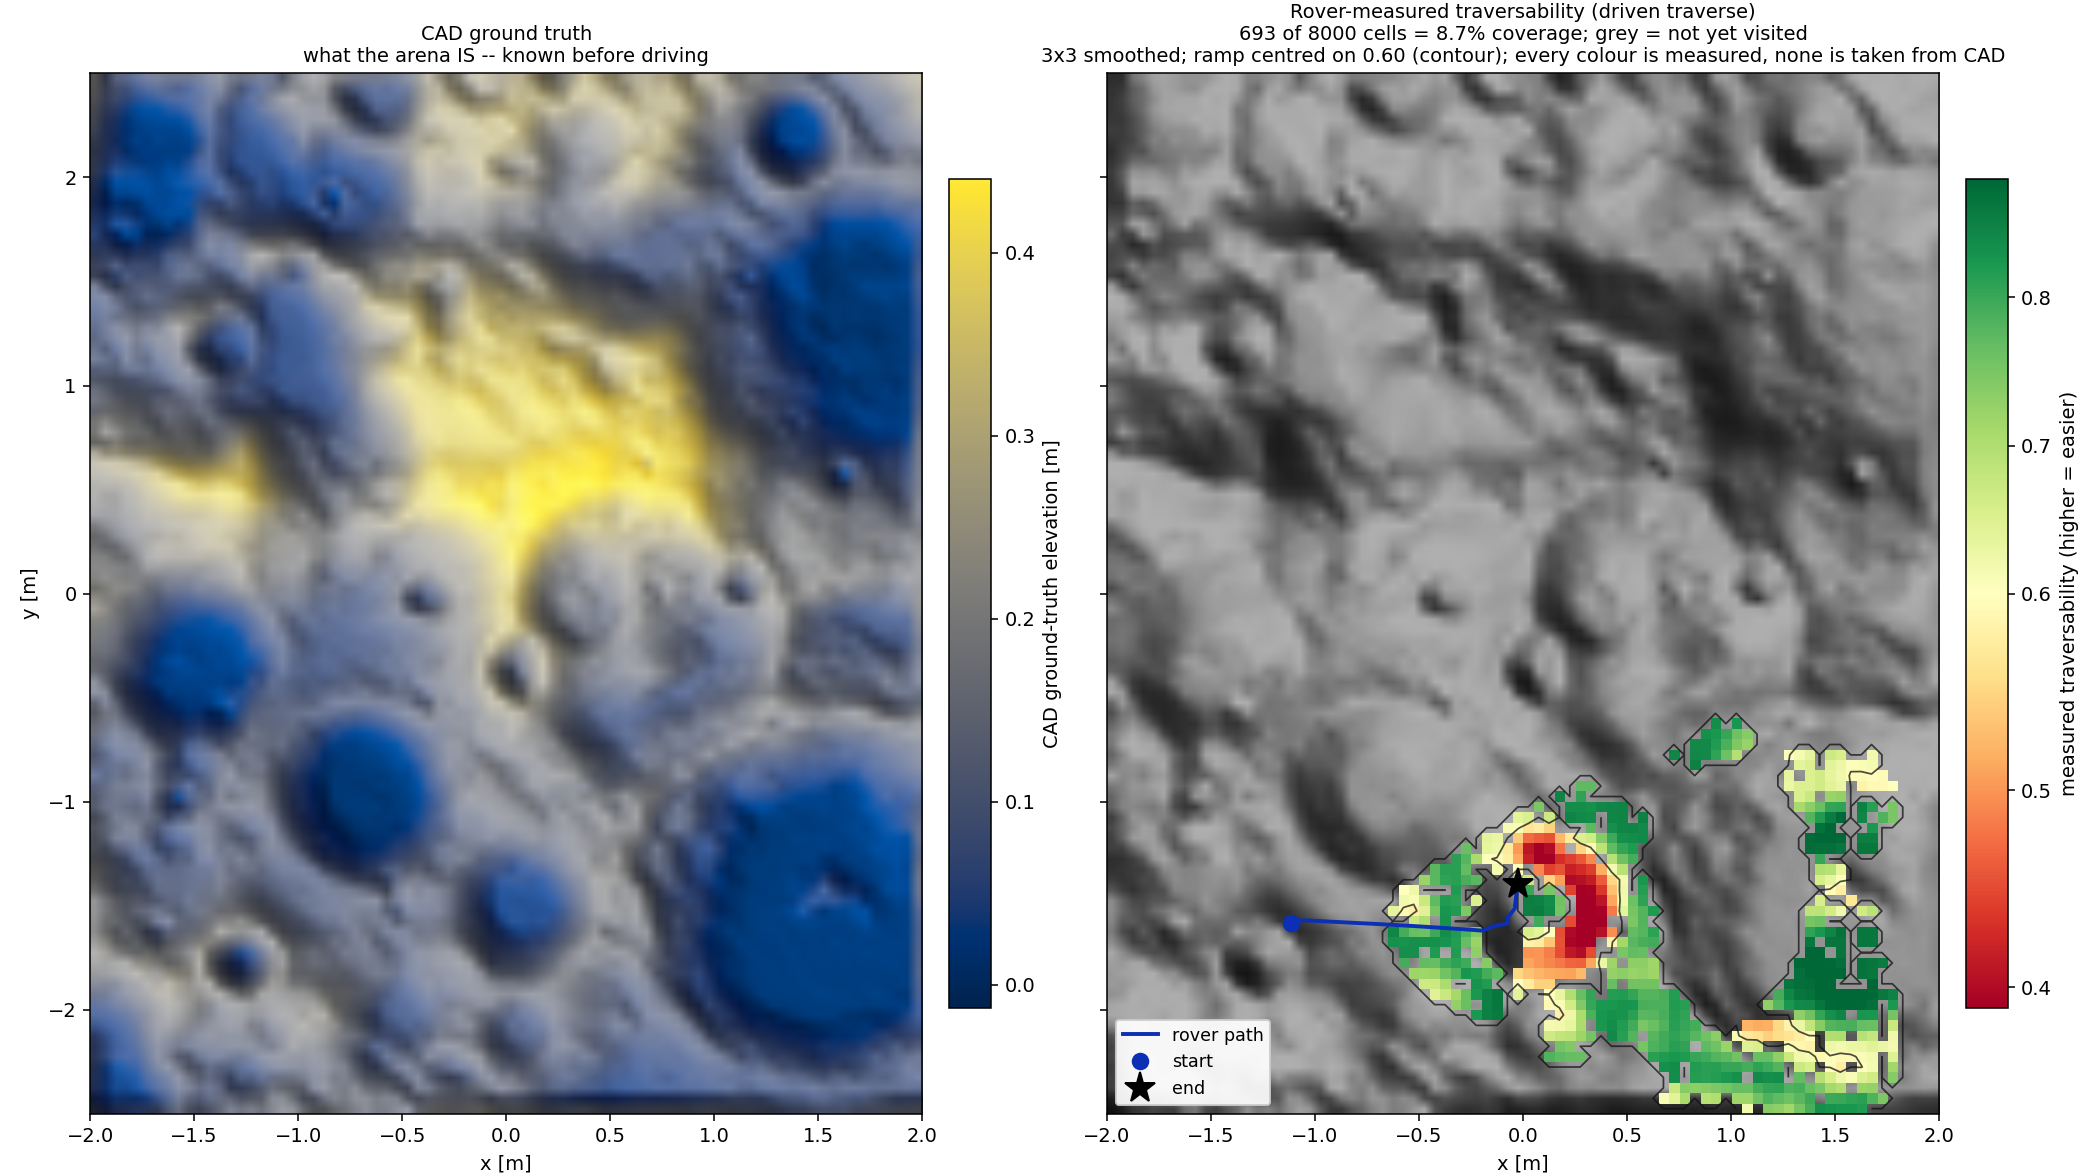
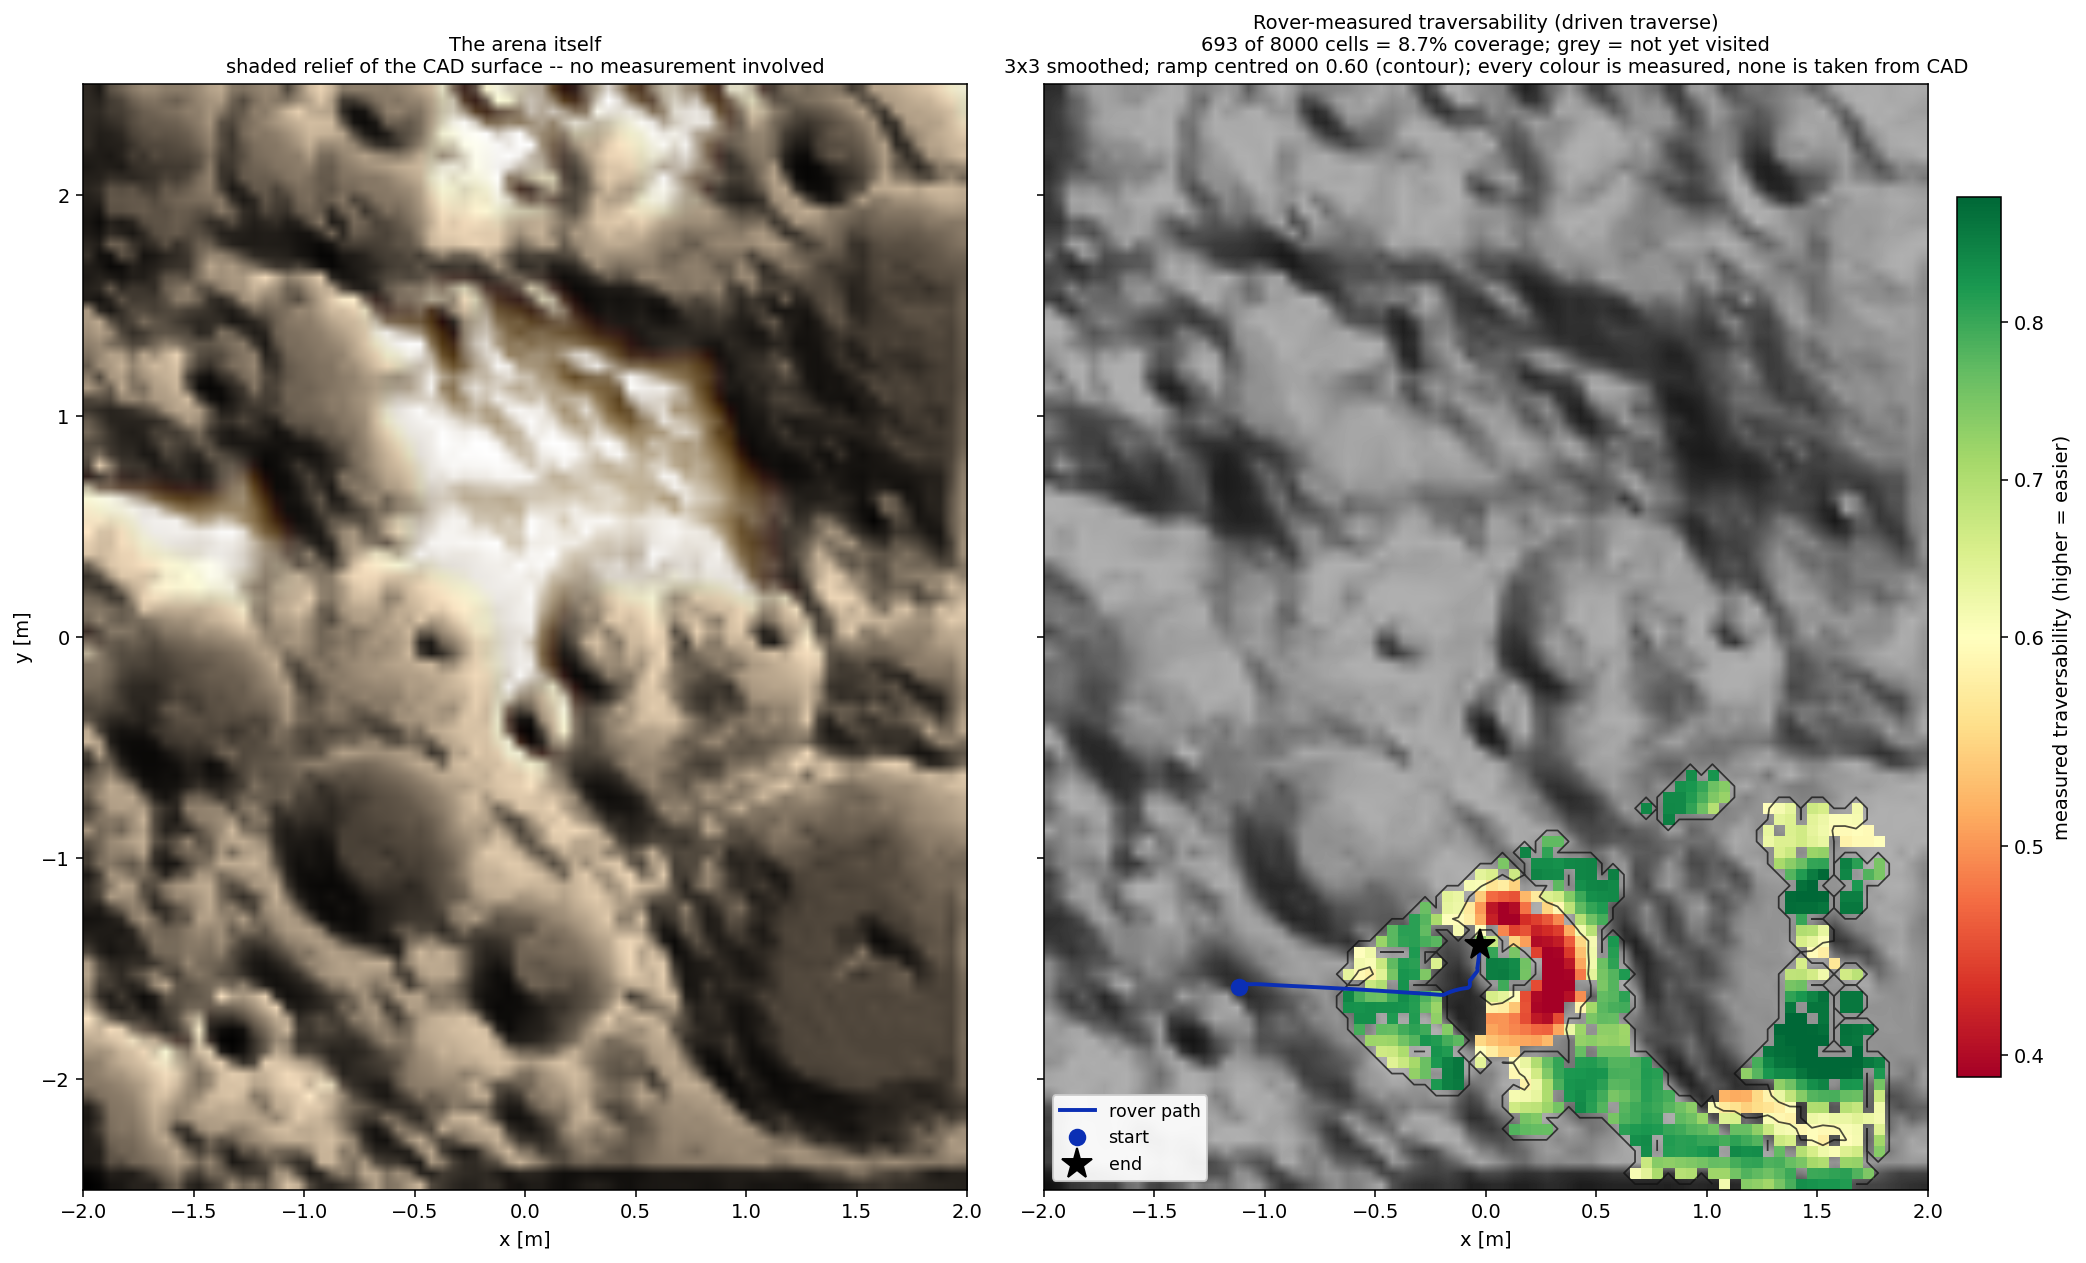
Show the arena as terrain, and report the map at 60% coverage
The left panel was a labelled heat map of CAD elevation, so the figure
compared one colour ramp against another and the reader had to translate
between them. It now renders the CAD surface as shaded relief in a
regolith tone with no colour bar, because it answers "what does this
terrain look like" -- a scientific palette there invites reading values
off a panel that exists only for context. `--left slope` keeps the
data-product variant, which is the starkest validation view: every bright
crater rim on the left carries a red arc on the right.

Coverage is reported at 60% via --coverage-target, which stops consuming
captured frames once the target is reached. Frames are consumed in arrival
order, so this is "the survey ended earlier" rather than a filtered
subset. The distinction matters: choosing WHEN to stop cannot flatter the
map, whereas choosing WHICH cells to keep could.

Also fixed the figure export. Reserving headroom by hand for the
three-line titles clipped the axis labels instead; bbox_inches='tight'
guarantees nothing is trimmed.

diff --git a/tools/render_arena_map.py b/tools/render_arena_map.py
@@ -26,7 +26,16 @@ import matplotlib
 matplotlib.use('Agg')
 import matplotlib.pyplot as plt
 import numpy as np
-from matplotlib.colors import LightSource, TwoSlopeNorm
+from matplotlib.colors import LightSource, LinearSegmentedColormap, TwoSlopeNorm
+
+
+#: Regolith tone for the "as it is" arena render. Deliberately not a
+#: scientific colour ramp: the left panel answers "what does the arena look
+#: like", so a data-product palette would invite reading values off it.
+REGOLITH = LinearSegmentedColormap.from_list(
+    'regolith',
+    ['#2b2620', '#4a4238', '#6f6455', '#968875', '#bdb09b', '#ded5c4'],
+)
 
 
 def accumulate(rows, truth, statistic='mean'):
@@ -104,6 +113,37 @@ def smooth_measured(grid, radius, iterations=1):
     return out
 
 
+def truncate_to_coverage(rows, truth, target):
+    """
+    Keep the earliest rows that reach ``target`` coverage, and drop the rest.
+
+    Rows are stored in arrival order, so this is exactly "the survey stopped
+    earlier" rather than a cherry-picked subset -- which matters, because
+    choosing WHICH cells to keep could flatter the map, while choosing WHEN to
+    stop cannot.
+    """
+    nx, ny = int(truth['nx']), int(truth['ny'])
+    res = float(truth['resolution'])
+    min_x, min_y = float(truth['min_x']), float(truth['min_y'])
+    wanted = int(round(target * nx * ny))
+
+    seen = set()
+    for index, row in enumerate(rows):
+        if row[9] <= 0.5:
+            continue
+        ix = int((row[0] - min_x) / res)
+        iy = int((row[1] - min_y) / res)
+        if 0 <= ix < nx and 0 <= iy < ny:
+            seen.add(iy * nx + ix)
+            if len(seen) >= wanted:
+                print(f'coverage target {target:.0%}: stopped after '
+                      f'{index + 1} of {len(rows)} captured cells')
+                return rows[:index + 1]
+    print(f'coverage target {target:.0%} not reachable; using all '
+          f'{len(rows)} cells ({len(seen)} distinct)')
+    return rows
+
+
 def draw_truth(ax, truth, extent, layer):
     """Draw the CAD arena as a shaded relief map, and return the image."""
     res = float(truth['resolution'])
@@ -114,19 +154,29 @@ def draw_truth(ax, truth, extent, layer):
     if layer == 'slope':
         values = np.degrees(truth['slope'])
         cmap, label = 'magma', 'CAD ground-truth slope [deg]'
-    else:
+    elif layer == 'elevation':
         values = elevation
         # Not 'terrain': its blue low end reads as water, which is misleading
         # for a regolith arena. cividis is perceptually uniform and
         # colour-vision-safe.
         cmap, label = 'cividis', 'CAD ground-truth elevation [m]'
+    else:
+        # 'arena': the surface as it looks, not as a measurement. No colour bar,
+        # because there is no value to read off it -- that is the point. Strong
+        # vertical exaggeration and low sun bring out the crater rims, which is
+        # what the reader is being asked to compare against.
+        values = elevation
+        cmap, label = REGOLITH, None
 
     rgb = light.shade(
         np.nan_to_num(values, nan=float(np.nanmin(values))),
-        cmap=plt.get_cmap(cmap), blend_mode='soft',
-        vert_exag=3.0, dx=res, dy=res,
+        cmap=(cmap if not isinstance(cmap, str) else plt.get_cmap(cmap)),
+        blend_mode='overlay' if label is None else 'soft',
+        vert_exag=6.0 if label is None else 3.0, dx=res, dy=res,
     )
     ax.imshow(rgb, origin='lower', extent=extent, interpolation='bilinear')
+    if label is None:
+        return None, None, values
     # A separate mappable carries the colour bar, since shade() returns RGB.
     mappable = ax.imshow(
         np.ma.masked_invalid(values), cmap=cmap, origin='lower',
@@ -156,14 +206,25 @@ def main(argv=None):
     )
     parser.add_argument('--smooth-iterations', type=int, default=1)
     parser.add_argument(
-        '--left', default='elevation', choices=('elevation', 'slope', 'none'),
-        help='CAD layer drawn in the comparison panel',
+        '--left', default='arena',
+        choices=('arena', 'elevation', 'slope', 'none'),
+        help=('comparison panel: "arena" renders the CAD surface as it LOOKS '
+              '(shaded relief, no colour bar) so the reader compares terrain '
+              'against measurement rather than one heat map against another; '
+              '"elevation"/"slope" draw it as a labelled data product'),
     )
     parser.add_argument(
         '--vmin', type=float, default=None,
         help='colour-scale floor; default is the 2nd percentile of the data',
     )
     parser.add_argument('--vmax', type=float, default=None)
+    parser.add_argument(
+        '--coverage-target', type=float, default=None,
+        help=('stop consuming captured frames once this coverage fraction is '
+              'reached. Equivalent to ending the survey earlier, since frames '
+              'are consumed in the order they arrived -- it is a shorter '
+              'survey, not a filtered one.'),
+    )
     parser.add_argument(
         '--threshold', type=float, default=None,
         help=('score treated as the neutral point: the colour ramp is centred '
@@ -177,6 +238,9 @@ def main(argv=None):
     truth = np.load(args.truth)
     data = np.load(args.measured)
     rows, path = data['rows'], data['path']
+
+    if args.coverage_target is not None:
+        rows = truncate_to_coverage(rows, truth, args.coverage_target)
 
     score, count, used, invalid = accumulate(rows, truth, args.statistic)
     ny, nx = score.shape
@@ -217,7 +281,7 @@ def main(argv=None):
 
     panels = 1 if args.left == 'none' else 2
     fig, axes = plt.subplots(
-        1, panels, figsize=(8.4 if panels == 1 else 15.0, 8.4), dpi=140,
+        1, panels, figsize=(8.4 if panels == 1 else 15.0, 9.0), dpi=140,
         sharex=True, sharey=True, squeeze=False,
     )
     axes = axes[0]
@@ -226,12 +290,24 @@ def main(argv=None):
     if panels == 2:
         left = axes[0]
         mappable, label, _ = draw_truth(left, truth, extent, args.left)
-        cbl = fig.colorbar(mappable, ax=left, fraction=0.046, pad=0.03)
-        cbl.set_label(label)
-        cbl.solids.set_alpha(1.0)
-        left.set_title('CAD ground truth\n'
-                       'what the arena IS -- known before driving',
-                       fontsize=10)
+        if mappable is not None:
+            cbl = fig.colorbar(mappable, ax=left, fraction=0.046, pad=0.03)
+            cbl.set_label(label)
+            cbl.solids.set_alpha(1.0)
+        else:
+            # Keep the panels the same width even without a colour bar.
+            cbl = fig.colorbar(
+                plt.cm.ScalarMappable(cmap=REGOLITH), ax=left,
+                fraction=0.046, pad=0.03,
+            )
+            cbl.outline.set_visible(False)
+            cbl.set_ticks([])
+            cbl.ax.set_visible(False)
+        left.set_title(
+            'The arena itself\n'
+            'shaded relief of the CAD surface -- no measurement involved',
+            fontsize=10,
+        )
         left.set_xlabel('x [m]')
         left.set_ylabel('y [m]')
         left.set_aspect('equal')
@@ -292,8 +368,10 @@ def main(argv=None):
         fontsize=10,
     )
     ax.set_aspect('equal')
-    fig.tight_layout()
-    fig.savefig(args.out)
+    # Three-line titles need headroom, and bbox_inches='tight' then guarantees
+    # nothing is trimmed -- reserving space by hand clipped the axis labels.
+    fig.tight_layout(rect=(0.0, 0.0, 1.0, 0.95))
+    fig.savefig(args.out, bbox_inches='tight')
     print(f'wrote {args.out}')
     return 0
 

diff --git a/docs/figures/README.md b/docs/figures/README.md
@@ -19,17 +19,22 @@ tools/capture_slip.py 24 slip_trace.png
 
 # 3. Render
 tools/render_arena_map.py --truth arena_truth.npz --measured measured_cells.npz \
-  --out arena_map_accumulated.png
+  --out arena_map_driven.png
 tools/compare_to_cad.py --truth arena_truth.npz --measured measured_cells.npz \
   --out slope_validation_vs_cad.png
 ```
 
 ## Reading the map figures
 
-Each map figure is two panels: **CAD ground truth on the left** (what the arena
-IS, known before driving) and **rover-measured traversability on the right**.
-Comparing them is the point — every bright crater rim in the CAD slope panel has
-a red arc against it in the measured panel, which is the +0.707 correlation made
+Each map figure is two panels: **the arena itself on the left** and
+**rover-measured traversability on the right**.
+
+The left panel is shaded relief of the CAD surface in a regolith tone,
+deliberately NOT a scientific colour ramp — it answers "what does this terrain
+look like", so a data palette would invite reading values off it. Use
+`--left slope` for the variant that draws CAD slope as a labelled data product;
+that one makes the validation starkest, because every bright crater rim on the
+left has a red arc against it on the right, which is the +0.707 correlation made
 visible.
 
 Two presentation choices, both constrained so they cannot overstate the result:
@@ -57,8 +62,12 @@ inflate the one number these figures exist to report.
 
 ## What each one shows
 
-**`arena_map_full_survey.png`** — the whole arena at **75.0% coverage**
-(6000 of 8000 cells, 1144 frames, median 29 visits per cell). Crater floors read
+**`arena_map_survey_60pct.png`** — the arena at **60.0% coverage**
+(4800 of 8000 cells, median 27 visits per cell). The survey captured enough for
+75%, and `--coverage-target 0.60` stops consuming frames once 60% is reached.
+That is "the survey ended earlier", not a filtered subset: frames are consumed in
+arrival order, so the choice is WHEN to stop, never WHICH cells to keep — the
+latter could flatter the map, the former cannot. Crater floors read
 green and the rims read dark red, which is the structure the hillshade shows
 independently.
 
@@ -72,9 +81,9 @@ beyond 25 deg, which is reported rather than hidden.
 Perception is fully exercised — every cell comes from a real rendered depth image
 through the unchanged pipeline. Only locomotion is skipped, and the figure title
 says so. Use this figure for "what the map looks like with coverage" and
-`arena_map_accumulated.png` for "how far the rover actually gets".
+`arena_map_driven.png` for "how far the rover actually gets".
 
-**`arena_map_accumulated.png`** — traversability accumulated onto the arena's
+**`arena_map_driven.png`** — traversability accumulated onto the arena's
 fixed grid. 693 of 8000 cells measured (8.7% coverage) over 219 frames, median
 15 visits per measured cell. Grey is *not yet visited*, which is a different
 statement from *measured and bad* — the distinction the raw pipeline output
@@ -108,7 +117,7 @@ saturate at 100%. Nothing about the geometry changed at that instant; only the
 rover's ability to move did.
 
 **`traversability_map_arena_terrain_v04.png`** — the earlier scatter of measured
-cells without the arena canvas. Superseded by `arena_map_accumulated.png`; kept
+cells without the arena canvas. Superseded by `arena_map_driven.png`; kept
 because it shows what the pipeline emits before the canvas is applied.
 
 ## Caveat
